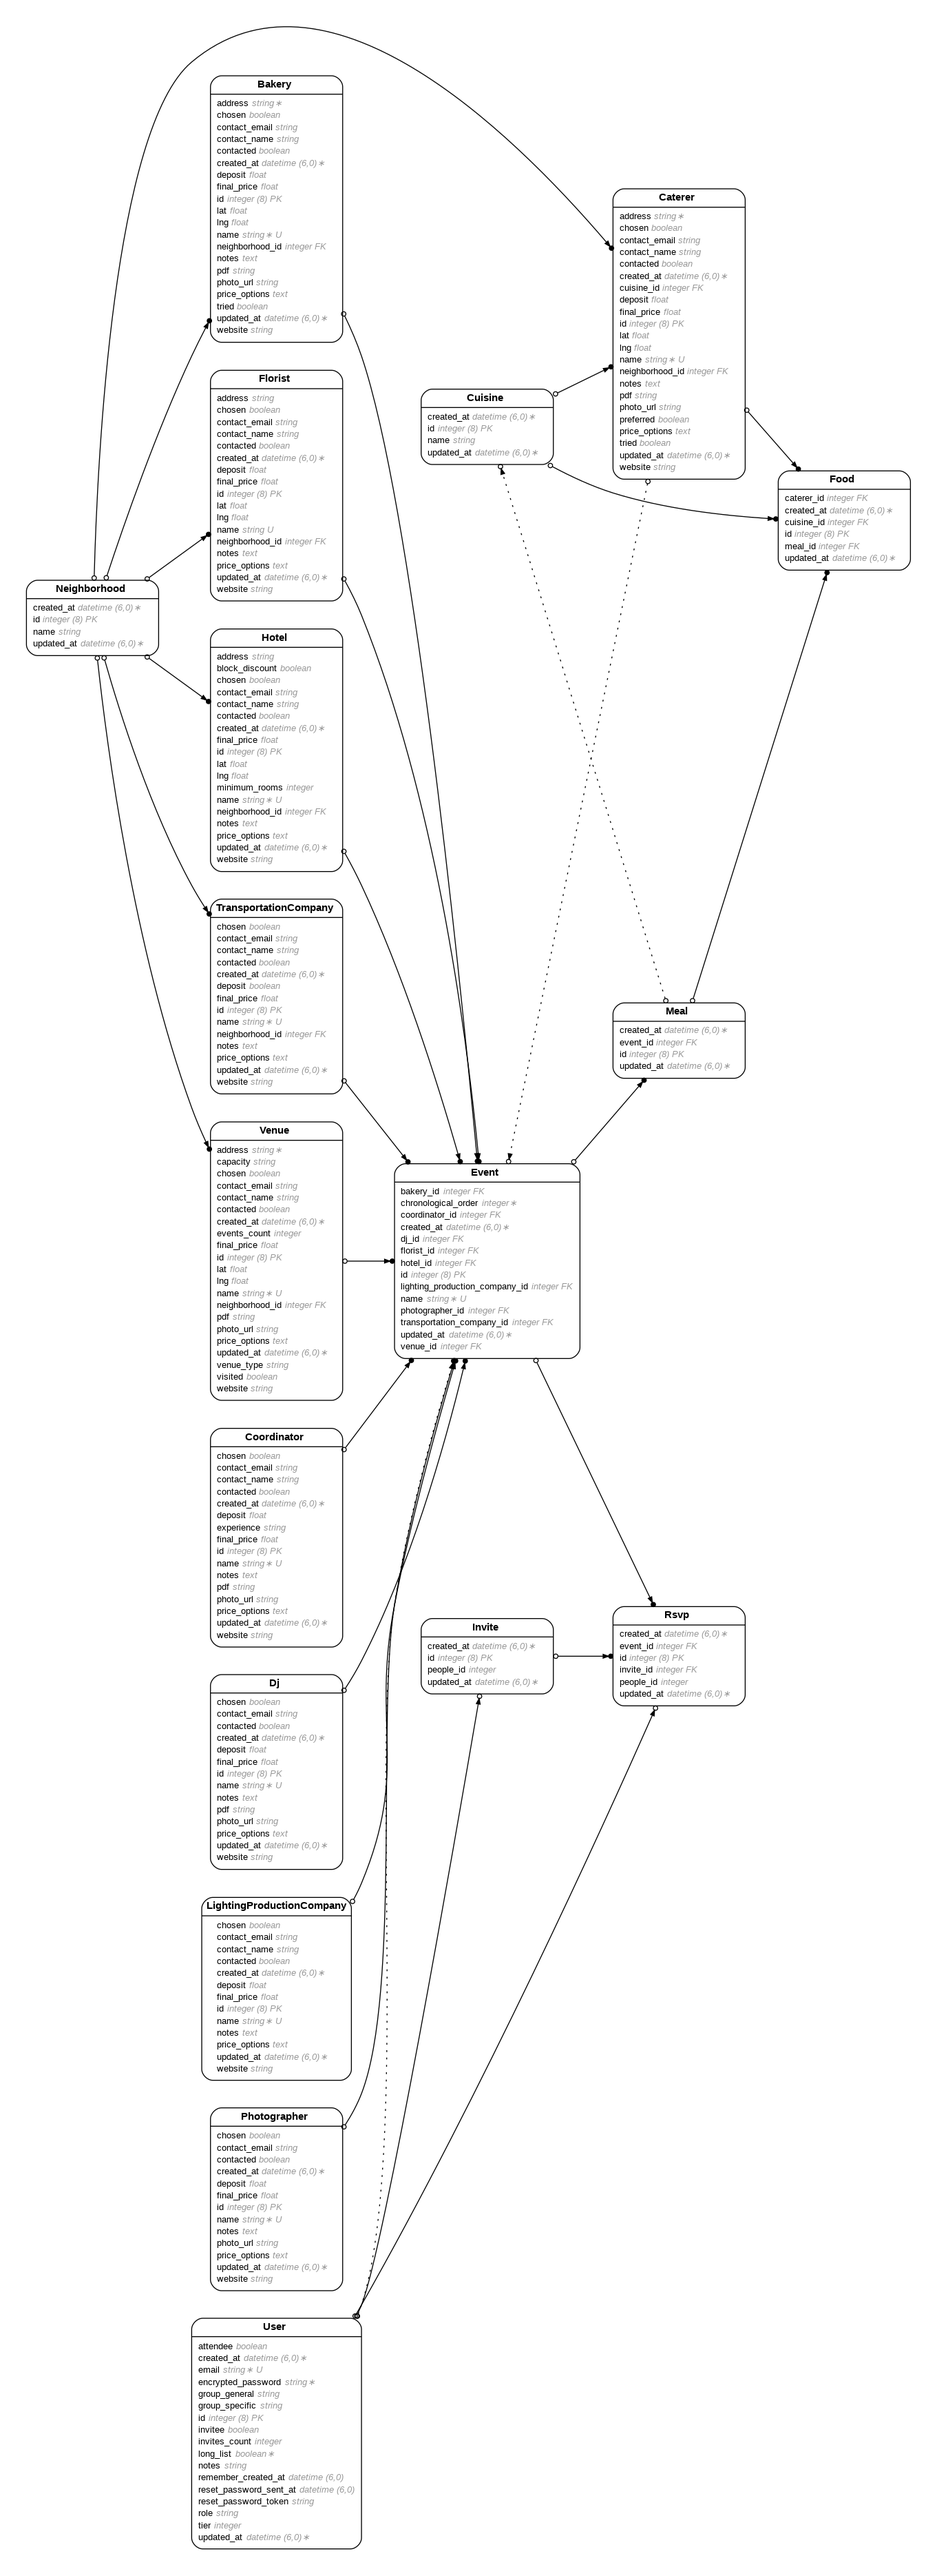
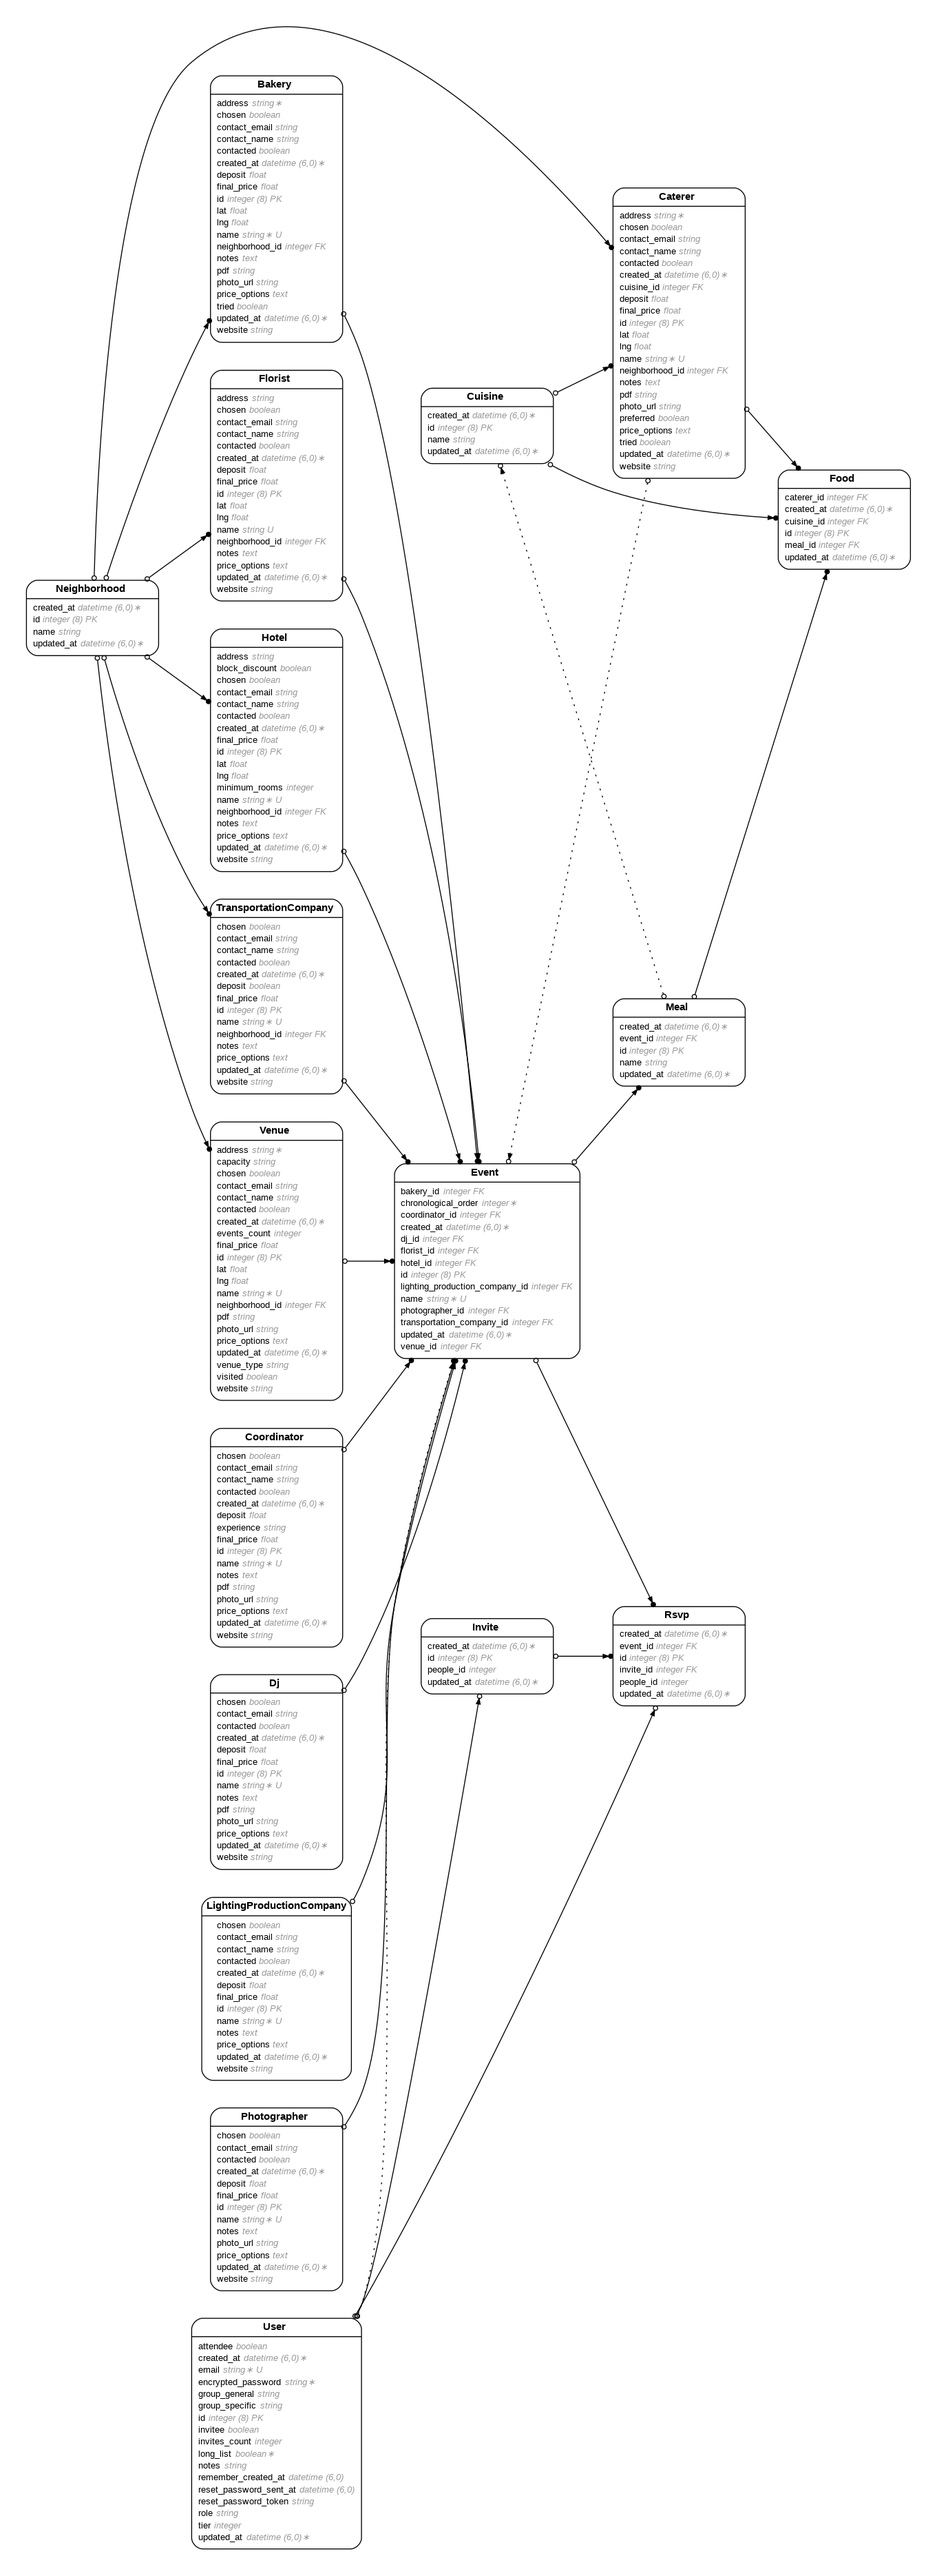
Update Meals controller, index, and show

diff --git a/app/controllers/meals_controller.rb b/app/controllers/meals_controller.rb
@@ -6,6 +6,8 @@ class MealsController < ApplicationController
 
     @list_of_caterers = Caterer.all.order({ :name => :desc })
 
+    @list_of_events = Event.all.order({ :name => :desc })
+
     render({ :template => "meals/index" })
   end
 
@@ -16,13 +18,26 @@ class MealsController < ApplicationController
 
     @the_meal = matching_meals.at(0)
 
+    @list_of_caterers = Caterer.all.order({ :name => :desc })
+
+    @the_meal_caterer = Caterer.where({ :id => @the_meal.caterer_id }).at(0)
+
+    @list_of_events = Caterer.all.order({ :name => :desc })
+
+    @the_meal_event = Event.where({ :id => @the_meal.event_id }).at(0)
+
     render({ :template => "meals/show" })
   end
 
   def create
     the_meal = Meal.new
-    the_meal.caterer_id = params.fetch("query_caterer_id")
-    the_meal.event_id = params.fetch("query_event_id")
+    the_meal.name = params.fetch("query_name")
+
+    caterer_name = params.fetch("query_caterer_name")
+    the_meal.caterer_id = Caterer.where({ :name => caterer_name }).at(0).id
+
+    event_name = params.fetch("query_event_name")
+    the_meal.event_id = Event.where({ :name => event_name }).at(0).id
 
     if the_meal.valid?
       the_meal.save
@@ -35,9 +50,13 @@ class MealsController < ApplicationController
   def update
     the_id = params.fetch("path_id")
     the_meal = Meal.where({ :id => the_id }).at(0)
+    the_meal.name = params.fetch("query_name")
 
-    the_meal.caterer_id = params.fetch("query_caterer_id")
-    the_meal.event_id = params.fetch("query_event_id")
+    caterer_name = params.fetch("query_caterer_name")
+    the_meal.caterer_id = Caterer.where({ :name => caterer_name }).at(0).id
+
+    event_name = params.fetch("query_event_name")
+    the_meal.event_id = Event.where({ :name => event_name }).at(0).id
 
     if the_meal.valid?
       the_meal.save

diff --git a/db/schema.rb b/db/schema.rb
@@ -10,7 +10,7 @@
 #
 # It's strongly recommended that you check this file into your version control system.
 
-ActiveRecord::Schema[7.1].define(version: 2024_12_05_061806) do
+ActiveRecord::Schema[7.1].define(version: 2024_12_05_063012) do
   # These are extensions that must be enabled in order to support this database
   enable_extension "plpgsql"
 
@@ -188,6 +188,7 @@ ActiveRecord::Schema[7.1].define(version: 2024_12_05_061806) do
     t.integer "event_id"
     t.datetime "created_at", null: false
     t.datetime "updated_at", null: false
+    t.string "name"
   end
 
   create_table "neighborhoods", force: :cascade do |t|

diff --git a/app/models/meal.rb b/app/models/meal.rb
@@ -3,6 +3,7 @@
 # Table name: meals
 #
 #  id         :bigint           not null, primary key
+#  name       :string
 #  created_at :datetime         not null
 #  updated_at :datetime         not null
 #  event_id   :integer

diff --git a/db/migrate/20241205063012_add_name_to_meals.rb b/db/migrate/20241205063012_add_name_to_meals.rb
@@ -1,0 +1,5 @@
+class AddNameToMeals < ActiveRecord::Migration[7.1]
+  def change
+    add_column :meals, :name, :string
+  end
+end
